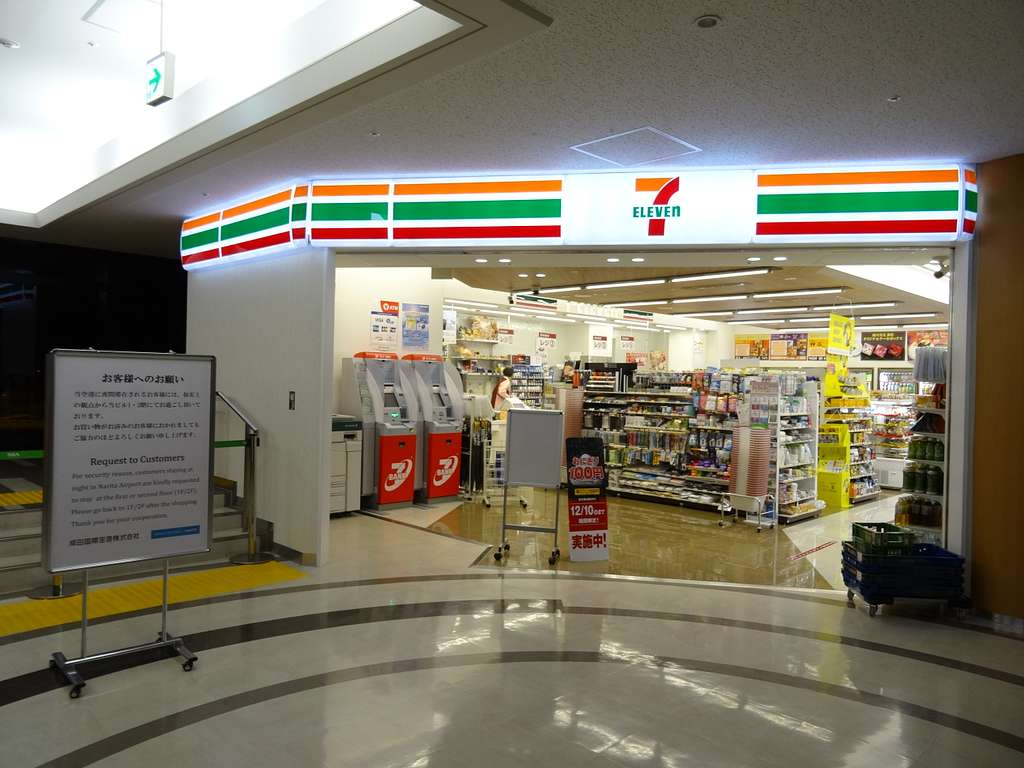
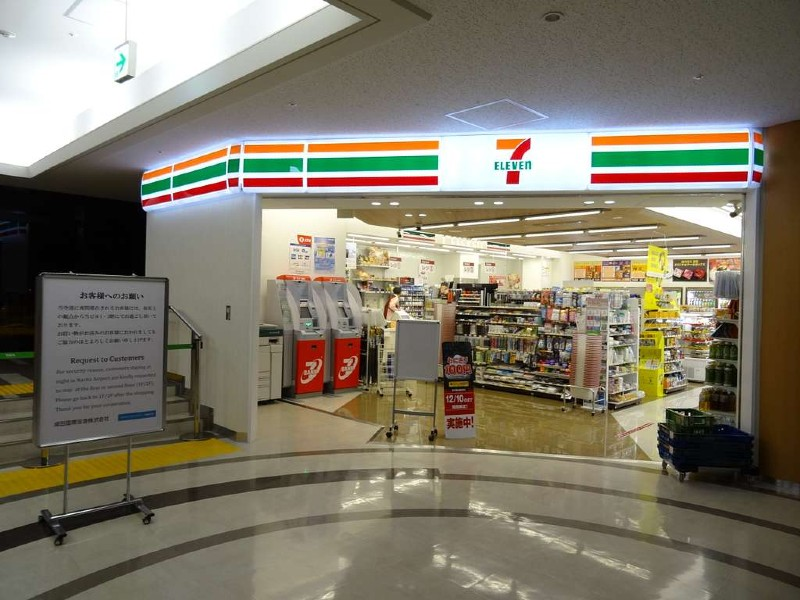
He cambiado el tamaño de las imagenes de fondo de menú presentes en el proyecto para que cuadren con la pantalla de 800 * 600 de Phaser. También he corregido un error en bootScene, nombraba a las dos fotos del SevenSixSeven al revés de como debería.

diff --git a/src/scenes/bootScene.js b/src/scenes/bootScene.js
@@ -27,8 +27,8 @@ export class bootScene extends Phaser.Scene {
         //MainMapBackground
         this.load.image('levelSelectorBG','./assets/ScenesBackgrounds/JapanLevelSelector/japanLevelSelectorMap.png')
         //levelBackgrounds
-        this.load.image('battleBackgrSixSeven', './assets/ScenesBackgrounds/SevenEleven/sevenElevenMenu.JPG')
-        this.load.image('locationBackgrSixSeven', './assets/ScenesBackgrounds/SevenEleven/sevenElevenInside.jpg')
+        this.load.image('battleBackgrSixSeven', './assets/ScenesBackgrounds/SevenEleven/sevenElevenInside.JPG')
+        this.load.image('locationBackgrSixSeven', './assets/ScenesBackgrounds/SevenEleven/sevenElevenMenu.jpg')
         this.load.image('battleBackgrArcade', './assets/ScenesBackgrounds/Arcade/arcadeInside.jpg')
         this.load.image('locationBackgrArcade', './assets/ScenesBackgrounds/Arcade/arcadeMenu.jpg')
         this.load.image('battleBackgrCrossing', './assets/ScenesBackgrounds/ShibuyaCrossing/shibuyaCrossingInside.png')
